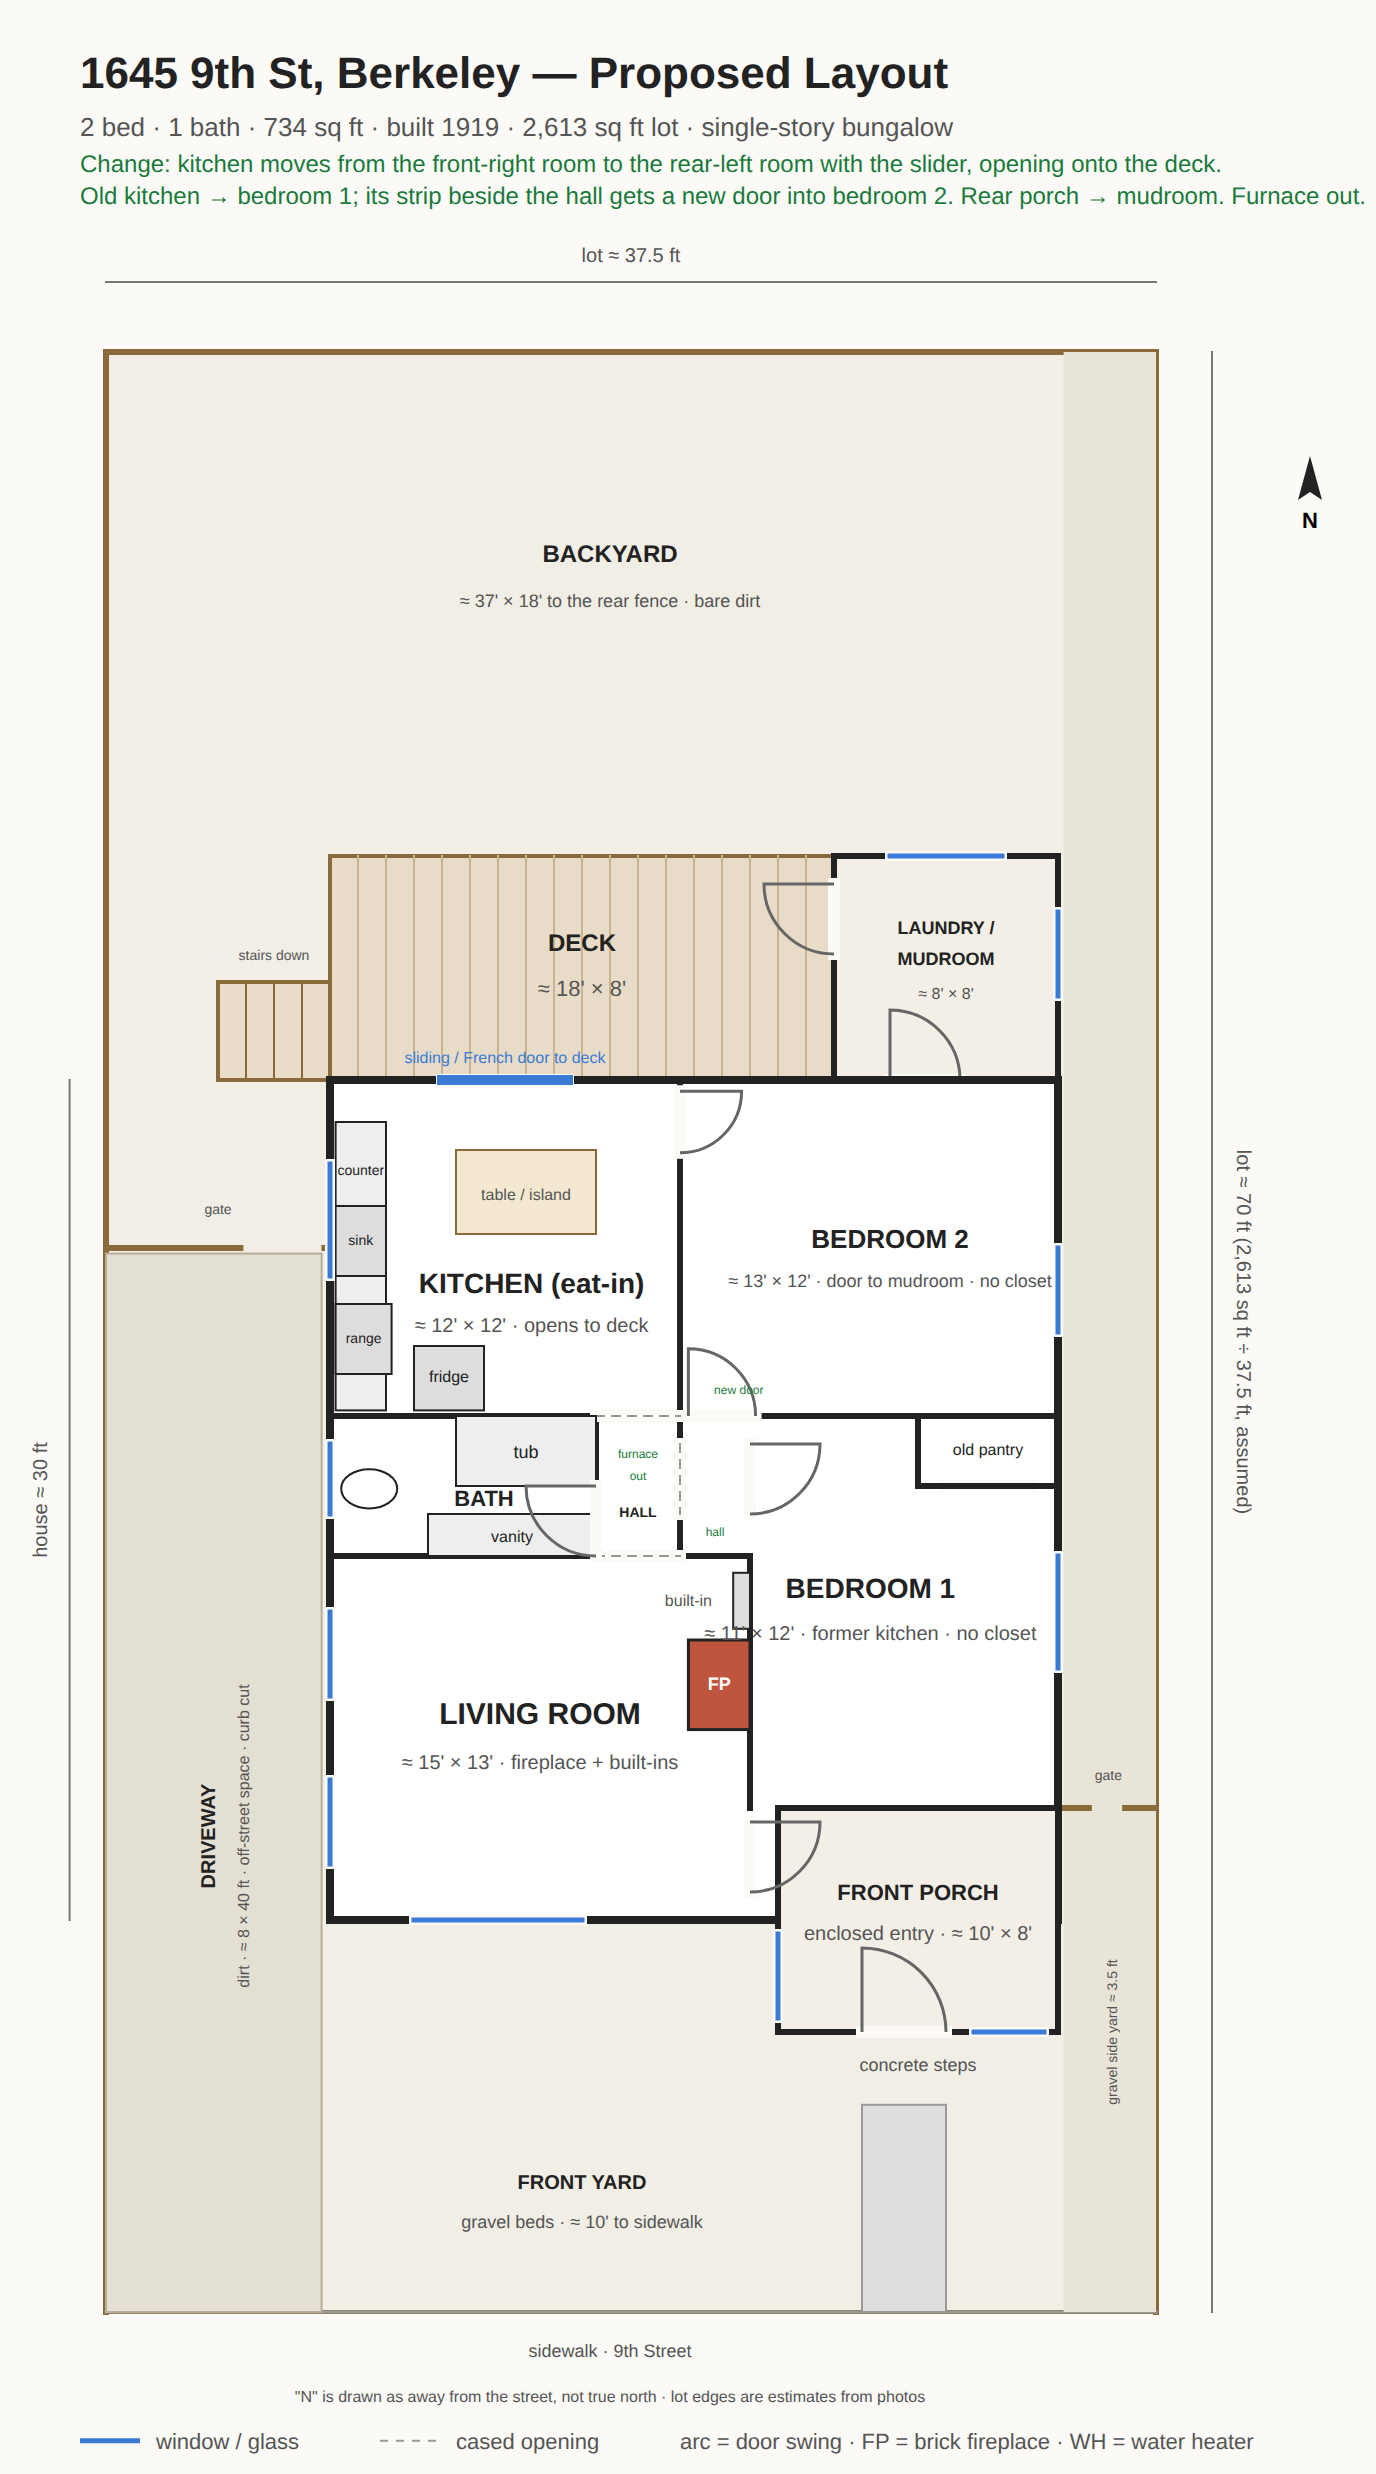
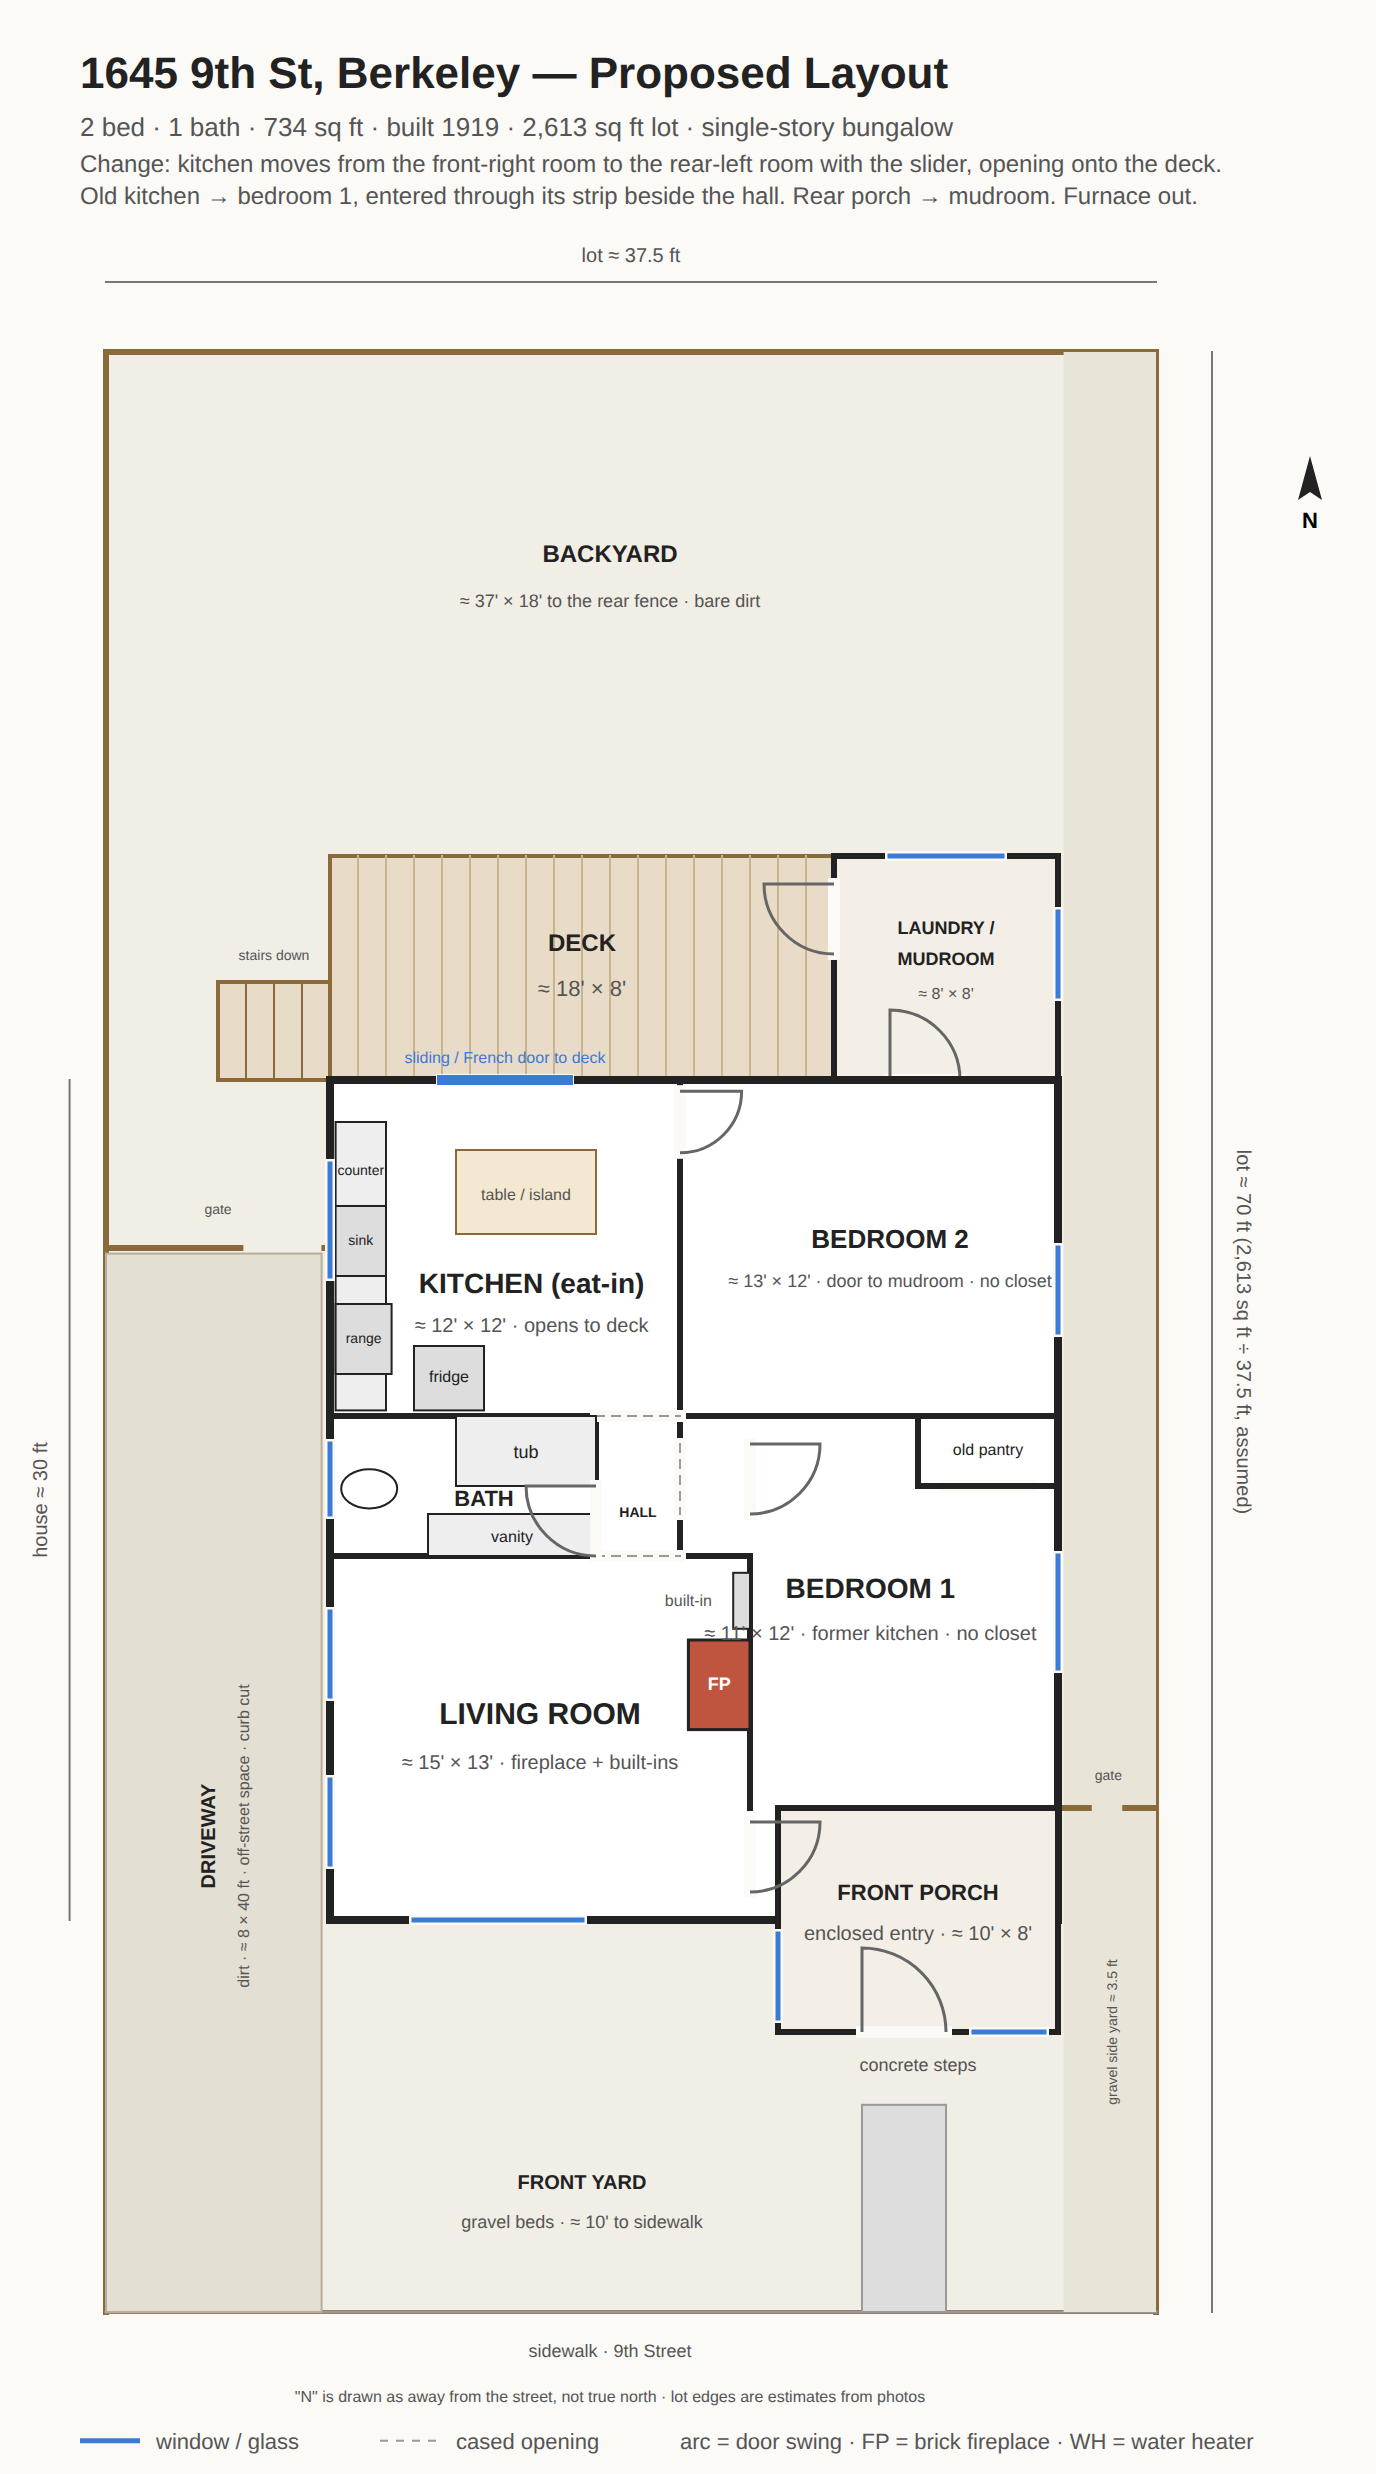
Proposed sheet: drop the green annotations and the door between the bedrooms
Claude-Session: https://claude.ai/code/session_01QP4ZkLkW7cUrZ9x3HXMY7H

Changed region(s): [[0.0625, 0.0622, 0.875, 0.0934], [0.5, 0.5602, 0.5625, 0.5914], [0.9062, 0.0622, 0.9375, 0.0934]]

diff --git a/index.html b/index.html
@@ -39,7 +39,7 @@ table{border-collapse:collapse;font-size:14px}td,th{padding:4px 12px 4px 0;text-
 <strong>Proposed changes</strong>
 <ul>
 <li><strong>Kitchen moves to the rear-left room with the slider</strong> so it opens directly onto the deck. Becomes an eat-in kitchen, roughly 12 × 12, sharing a wet wall with the bath. Sink and range on the west wall; the existing corner door to the back room stays.</li>
-<li><strong>Old kitchen (front-right, roughly 11 × 12) becomes bedroom 1.</strong> Its strip beside the hall becomes a short hall with a door to bedroom 1 and a new door to bedroom 2, which today is reached only through the rear-left room. The rear-right bedroom stays a bedroom, becomes bedroom 2, roughly 13 × 12. Neither bedroom has a closet. Floor furnace comes out; mini-splits instead.</li>
+<li><strong>Old kitchen (front-right, roughly 11 × 12) becomes bedroom 1.</strong> Its strip beside the hall becomes its entry. Bedroom 2 keeps its existing corner door from the rear-left room, which becomes the kitchen. The rear-right bedroom stays a bedroom, becomes bedroom 2, roughly 13 × 12. Neither bedroom has a closet. Floor furnace comes out; mini-splits instead.</li>
 <li><strong>Rear porch becomes laundry / mudroom</strong>, roughly 8 × 8, entered from bedroom 2 and from the deck. Washer, dryer and water heater go in it.</li>
 <li>Living room, bath, hall, and front porch unchanged in this pass.</li>
 </ul>

diff --git a/floor-plan/generate.py b/floor-plan/generate.py
@@ -40,8 +40,8 @@ def build(variant):
     out.append(f'<text x="40" y="44" font-size="22" font-weight="bold" fill="#222">1645 9th St, Berkeley — {title}</text>')
     out.append(f'<text x="40" y="68" font-size="13" fill="#555">2 bed · 1 bath · 734 sq ft · built 1919 · 2,613 sq ft lot · single-story bungalow</text>')
     if proposed:
-        out.append(f'<text x="40" y="86" font-size="12" fill="#1a7a3c">Change: kitchen moves from the front-right room to the rear-left room with the slider, opening onto the deck.</text>')
-        out.append(f'<text x="40" y="102" font-size="12" fill="#1a7a3c">Old kitchen → bedroom 1; its strip beside the hall gets a new door into bedroom 2. Rear porch → mudroom. Furnace out.</text>')
+        out.append(f'<text x="40" y="86" font-size="12" fill="#555">Change: kitchen moves from the front-right room to the rear-left room with the slider, opening onto the deck.</text>')
+        out.append(f'<text x="40" y="102" font-size="12" fill="#555">Old kitchen → bedroom 1, entered through its strip beside the hall. Rear porch → mudroom. Furnace out.</text>')
     else:
         out.append(f'<text x="40" y="86" font-size="12" fill="#a33">From the listing photos; room positions corrected after the walkthrough. Sizes are estimates (±2 ft), not measured.</text>')
 
@@ -118,10 +118,9 @@ def build(variant):
         line(21.5,26,23.5,26,stroke="#fbfaf7",sw=6); line(21.5,26,23.5,26,stroke="#3a7bd5",sw=2.5); label(22.5,26.9,"small window to porch",7,False,"#3a7bd5")
         label(19.3,18.5,"KITCHEN",14); label(19.3,20,"≈ 11' × 12' + strip · galley",10,False,"#555"); label(23.5,13.4,"pantry",8,False)
     else:
-        label(11,15.6,"HALL",7); label(11,13.5,"furnace",6,False,"#1a7a3c"); label(11,14.3,"out",6,False,"#1a7a3c")
-        # the old kitchen's strip beside the hall becomes a short hall serving both bedrooms; the old kitchen door is the entry
-        opening(12.5,13,12.5,15.5); door(12.8,12,2.4,'n'); door(15,13,2.5,'e')
-        label(13.75,16.3,"hall",6,False,"#1a7a3c"); label(14.6,11.2,"new door",6,False,"#1a7a3c")
+        label(11,15.6,"HALL",7)
+        # the old kitchen's strip beside the hall is bedroom 1's entry; the old kitchen door is the opening
+        opening(12.5,13,12.5,15.5); door(15,13,2.5,'e')
         # kitchen rear-left (eat-in, opens to the deck); its old corner door into the closet gets closed
         line(4,0,8.5,0,stroke="#fbfaf7",sw=6); line(4,0,8.5,0,stroke="#3a7bd5",sw=5); label(6.25,-0.6,"sliding / French door to deck",8,False,"#3a7bd5")
         rect(0.2,1.5,2,11.8,fill="#eee",stroke="#222",sw=1); label(1.1,3.4,"counter",7,False)

diff --git a/CLAUDE.md b/CLAUDE.md
@@ -59,8 +59,8 @@ The lot is drawn from photos 01, 03, 05 and 21 and the listed 2,613 sq ft: about
 ### Proposed changes (as of Sept 9, 2026)
 
 1. **Kitchen moves to the rear-left room with the slider** so it opens directly onto the deck (eat-in, ≈12×12). Reason: don't want to walk through a bedroom to reach the yard. The new kitchen shares its south wall with the bathroom, so the wet wall is shared.
-2. **Old kitchen (front-right, ≈11×12) becomes bedroom 1.** Its strip beside the hall becomes a short hall of its own, entered through the old kitchen door, with a door east into bedroom 1 and a new door north into bedroom 2, so bedroom 2 is no longer reached only through the kitchen. Its plumbing gets abandoned.
-3. **Rear-right bedroom stays a bedroom** and becomes bedroom 2 (≈13×12). It keeps its door into the rear porch. Its existing corner door from the new kitchen can stay or be closed. Neither bedroom has a closet; both need one.
+2. **Old kitchen (front-right, ≈11×12) becomes bedroom 1.** Its strip beside the hall becomes its entry vestibule, through the old kitchen door. No door between the bedrooms. Its plumbing gets abandoned.
+3. **Rear-right bedroom stays a bedroom** and becomes bedroom 2 (≈13×12). It keeps its door into the rear porch and is entered through its existing corner door from the new kitchen. Neither bedroom has a closet; both need one.
 4. **Rear porch becomes laundry / mudroom** (≈8×8), reached from bedroom 2 and from the deck; washer, dryer and water heater in it.
 5. Living room, bath, hall, front porch unchanged. Floor furnace comes out; mini-splits.
 
